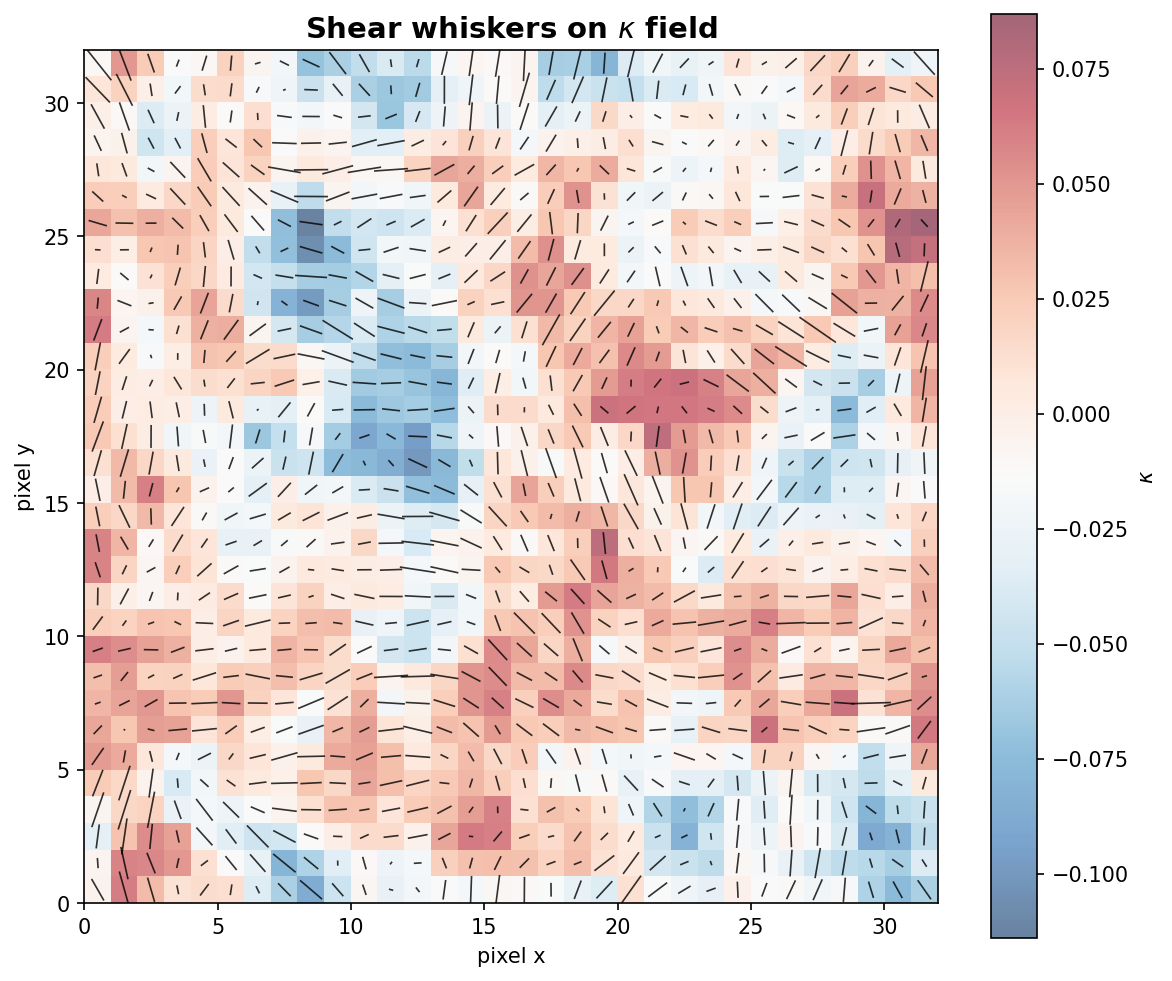
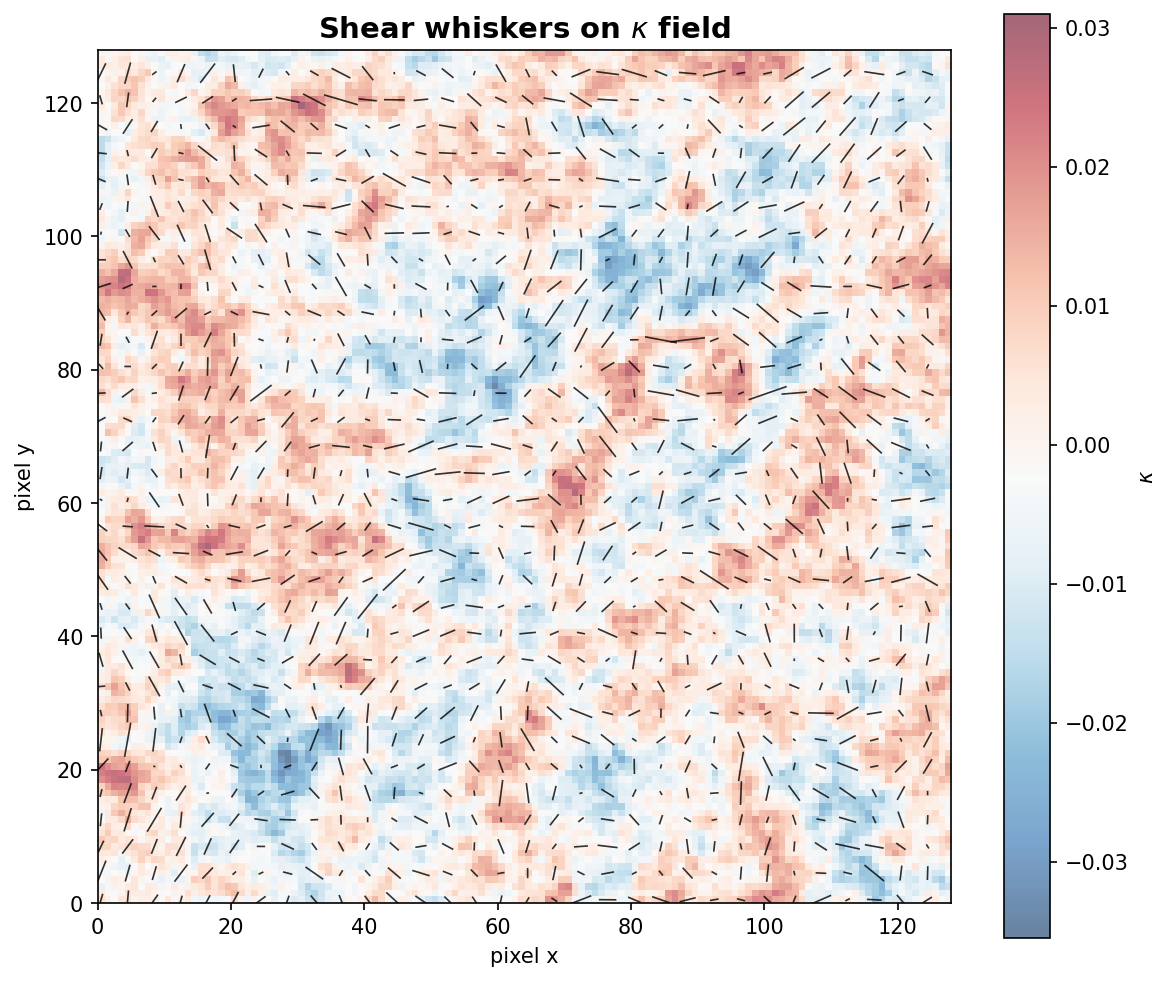
updating parameters

diff --git a/cosmology_inference_demo.py b/cosmology_inference_demo.py
@@ -41,7 +41,7 @@ from cosmo_lib.simulation import simulate_shear_catalog
 from cosmo_lib.classical import estimate_pseudo_cl, compute_eb_power, run_classical_pipeline
 from cosmo_lib.hierarchical import (
     _fourier_setup,
-    posterior_mean_shear,
+    posterior_sample_shear,
     run_hierarchical_pipeline,
 )
 from cosmo_lib.plotting import (
@@ -141,7 +141,7 @@ def main() -> None:
     print(f"  Field-level NUTS done in {time.time() - t0:.1f}s")
 
     # Posterior mean shear reconstruction for visualization
-    gamma1_recon, gamma2_recon = posterior_mean_shear(hierarchical_samples, fourier)
+    gamma1_recon, gamma2_recon = posterior_sample_shear(hierarchical_samples, fourier, index=-1)
 
     # ------------------------------------------------------------------
     # 4. Plots
@@ -159,7 +159,7 @@ def main() -> None:
         gamma2_recon,
     )
     plot_power_spectrum(cl_data, sim["ell2d"], eb_data=eb_data)
-    plot_shear_whiskers(sim)
+    plot_shear_whiskers(sim, stride=max(1, GRID_SIZE // 32))
 
     # ------------------------------------------------------------------
     # 5. Verification

diff --git a/cosmo_lib/hierarchical.py b/cosmo_lib/hierarchical.py
@@ -197,25 +197,27 @@ def run_hierarchical_pipeline(
     }
 
 
-def posterior_mean_shear(
+def posterior_sample_shear(
     samples: dict,
     fourier: dict,
+    index: int = 0,
 ) -> tuple[jnp.ndarray, jnp.ndarray]:
-    """Compute mean reconstructed shear from posterior kappa samples.
+    """Compute reconstructed shear from a single posterior kappa sample.
 
-    Takes the posterior mean kappa, applies Kaiser-Squires to get shear.
+    Takes one posterior kappa sample, applies Kaiser-Squires to get shear.
 
     Args:
         samples: Dictionary with 'kappa' array of shape (n_samples, n, n).
         fourier: Pre-computed Fourier grids.
+        index: Which posterior sample to use.
 
     Returns:
         Tuple (gamma1_recon, gamma2_recon), each (n, n).
     """
-    kappa_mean = jnp.mean(samples["kappa"], axis=0)
+    kappa_sample = samples["kappa"][index]
     D_ell = fourier["D_ell"]
 
-    kappa_fft = jnp.fft.fft2(kappa_mean)
+    kappa_fft = jnp.fft.fft2(kappa_sample)
     gamma_fft = D_ell * kappa_fft
     gamma = jnp.fft.ifft2(gamma_fft)
 

diff --git a/cosmo_lib/config.py b/cosmo_lib/config.py
@@ -8,8 +8,8 @@ import numpy as np
 # ---------------------------------------------------------------------------
 # Grid / survey settings
 # ---------------------------------------------------------------------------
-GRID_SIZE = 32  # pixels per side
-PIXEL_SCALE = 2.0  # arcmin / pixel
+GRID_SIZE = 128     # pixels per side
+PIXEL_SCALE = 1.0   # arcmin / pixel
 N_GAL_PER_PIX = 30  # galaxies per pixel
 SHAPE_NOISE = 0.26  # per-component intrinsic shape noise
 
@@ -26,7 +26,7 @@ A0 = 1e-4
 # Joint field-level NUTS settings (Pipeline B)
 # ---------------------------------------------------------------------------
 N_JOINT_WARMUP = 500
-N_JOINT_SAMPLES = 1000
+N_JOINT_SAMPLES = 2000
 JOINT_TARGET_ACCEPT = 0.8
 JOINT_MAX_TREE_DEPTH = 8
 
@@ -34,7 +34,7 @@ JOINT_MAX_TREE_DEPTH = 8
 # Classical pipeline NUTS settings
 # ---------------------------------------------------------------------------
 N_NUTS_WARMUP = 500
-N_NUTS_SAMPLES = 4000
+N_NUTS_SAMPLES = 2000
 
 # Ell binning
 N_ELL_BINS = 15

diff --git a/cosmo_lib/plotting.py b/cosmo_lib/plotting.py
@@ -181,7 +181,7 @@ def plot_shear_maps(
         vmin=vmin1,
         vmax=vmax1,
     )
-    axes[0, 2].set_title(r"NUTS-Reconstructed $\gamma_1$")
+    axes[0, 2].set_title(r"NUTS Sample $\gamma_1$")
     plt.colorbar(im, ax=axes[0, 2])
 
     # gamma2 row
@@ -204,11 +204,11 @@ def plot_shear_maps(
         vmin=vmin2,
         vmax=vmax2,
     )
-    axes[1, 2].set_title(r"NUTS-Reconstructed $\gamma_2$")
+    axes[1, 2].set_title(r"NUTS Sample $\gamma_2$")
     plt.colorbar(im, ax=axes[1, 2])
 
     plt.suptitle(
-        "Shear Field: True | Observed | NUTS-Reconstructed",
+        "Shear Field: True | Observed | NUTS Sample",
         fontsize=14,
         fontweight="bold",
     )

diff --git a/schneider.md b/schneider.md
@@ -1,0 +1,103 @@
+# Schneider et al. (2015) — Hierarchical Probabilistic Inference of Cosmic Shear
+
+**Reference:** Schneider, Hogg, Marshall, Dawson, Meyers, Bard & Lang, *ApJ* 807:87 (2015)
+
+## Overview
+
+The paper presents a forward-modeling, hierarchical Bayesian framework for inferring cosmic shear from galaxy imaging surveys. The key innovation is a **divide-and-conquer** strategy: fit each galaxy independently to obtain "interim posterior" samples of its parameters, then combine those per-galaxy samples into a global inference on the shear field and cosmology using **importance sampling**. This avoids the intractable joint fit of all galaxies simultaneously while still propagating the full per-galaxy uncertainty into the cosmological constraints.
+
+---
+
+## The Three-Level Hierarchy
+
+The full joint posterior (Equation 18 in the paper) factorizes into three conditionally independent branches:
+
+1. **Cosmological parameters** $\boldsymbol{\theta}$ (e.g. $\Omega_m$, $\sigma_8$) — set the angular power spectrum $C_\ell$ of the lensing potential $\psi$.
+2. **Observational PSFs** $\Pi_{n,i}$ — one per galaxy $n$ per epoch $i$, drawn from epoch-level observing conditions $\Omega_i$.
+3. **Intrinsic galaxy properties** $\omega_n$ (ellipticity, size, brightness) — drawn from a population-level distribution with hyperparameters $\alpha$ (modeled via a Dirichlet Process).
+
+The lens potential $\psi_s(\mathbf{x})$ connects branch 1 to the galaxy-level likelihood: it is the 2D projection of the 3D matter potential $\Psi^{\rm LT}$, which depends on cosmology $\boldsymbol{\theta}$ and initial conditions $\Psi^{\rm IC}$.
+
+---
+
+## Step 1: Interim Posterior Sampling (the "Reaper")
+
+For each galaxy $n$ observed across epochs $i = 1, \ldots, n_{\rm epoch}$, run an MCMC sampler on the per-galaxy likelihood of the pixel data $\mathbf{d}_n$:
+
+$$\ln \Pr(\mathbf{d}_n) = -\frac{1}{2} \sum_i \frac{(d_{n,i} - \hat{d}(\omega_n, \psi, \Pi_i))^2}{\sigma_{{\rm pix},n,i}^2} + \text{const.}$$
+
+This produces $K$ samples $\{\omega_{nk}, \Pi_{nk}\}_{k=1}^K$ from the **interim posterior**:
+
+$$\Pr(\omega_n, \Pi_n | \mathbf{d}_n) = \frac{1}{Z_n} \Pr(\mathbf{d}_n | \omega_n, \Pi_n) \Pr(\omega_n | I_0) \Pr(\Pi_n | I_0)$$
+
+where $I_0$ denotes the interim prior assumptions (chosen for computational convenience — broad or flat priors are fine). Crucially, the shear/lensing potential is **not** fit at this stage; the interim prior on $\psi$ can be any convenient Gaussian whose covariance mimics cosmological spatial correlations (Equation 9), but $\psi$ need not be tied to a specific cosmology yet.
+
+**Key point:** Each galaxy is fit independently and in parallel. The interim samples capture the full degeneracy between intrinsic shape $\omega_n$ and applied shear $\psi$. Only ~10 samples per galaxy are needed.
+
+---
+
+## Step 2: Importance Sampling to Build the Global Likelihood (the "Thresher")
+
+The goal is to evaluate the **marginalized likelihood** for the data of all galaxies, given the shear field $\psi$, the galaxy population hyperparameters $\alpha$, and the observing conditions $\Omega$:
+
+$$\Pr(\mathbf{d} | \alpha, \Omega, \psi) = \prod_{n=1}^{n_{\rm gal}} \Pr(\mathbf{d}_n | \alpha, \Omega, \psi)$$
+
+where each per-galaxy term involves an integral over the nuisance parameters $\omega_n$ and $\Pi_n$:
+
+$$\Pr(\mathbf{d}_n | \alpha, \Omega, \psi) \propto \int d\omega_n \int d\Pi_n \; \frac{\Pr(\omega_n | \alpha) \Pr(\Pi_n | \Omega)}{\Pr(\omega_n | I_0) \Pr(\Pi_n | I_0)} \Pr(\mathbf{d}_n | \omega_n, \psi, \Pi_n) \Pr(\omega_n | I_0) \Pr(\Pi_n | I_0)$$
+
+### The importance-sampling identity
+
+Using the identity $\int p(x) f(x) dx = \int p(x) g(x) \frac{f(x)}{g(x)} dx$ to rewrite this integral as an expectation over the interim posterior, the marginalized likelihood becomes (Equation 15):
+
+$$\boxed{\Pr(\mathbf{d}_n | \alpha, \Omega, \psi) \approx \frac{Z_n}{K} \sum_{k=1}^{K} \frac{\Pr(\omega_{nk} | \alpha, \psi) \; \Pr(\Pi_{nk} | \Omega)}{\Pr(\omega_{nk} | I_0) \; \Pr(\Pi_{nk} | I_0)}}$$
+
+where the sum runs over the $K$ interim posterior samples $\{\omega_{nk}, \Pi_{nk}\}$ drawn in Step 1.
+
+**What this achieves:** The expensive pixel-level likelihood $\Pr(\mathbf{d}_n | \omega_n, \psi, \Pi_n)$ was already evaluated during interim sampling. Now, to evaluate the likelihood under a *different* model (different $\alpha$, $\psi$, or $\Omega$), we only need to re-weight the existing samples by the ratio of the new prior to the interim prior. This is extremely fast — just evaluate prior ratios on stored samples.
+
+**Why it works:** The interim posterior samples cover the region of parameter space that matters for each galaxy. By re-weighting them, we can "reinterpret" those samples under any new model for the shear and galaxy population, without re-running any pixel-level fits.
+
+---
+
+## Step 3: From Shear Field to Cosmology (the "Winnower")
+
+Given interim samples of the lens potential $\psi_s$ from the Thresher, cosmological parameter constraints follow by another layer of importance sampling (Equation 17):
+
+$$\Pr(\mathbf{d}_n | \Psi^{\rm IC}, \boldsymbol{\theta}, W) \propto \frac{1}{N} \sum_{k=1}^{N} \frac{\prod_s \Pr(\hat{\psi}_{s,k} | \Psi^{\rm IC}, \boldsymbol{\theta}, W)}{\prod_s \Pr(\hat{\psi}_{s,k} | I)}$$
+
+where the sum is over $N$ lens-potential samples $\hat{\psi}_{s,k}$ from the Thresher output. The numerator evaluates the probability of each sampled $\psi$ under a cosmological model (parameterized by $\boldsymbol{\theta}$ and initial conditions $\Psi^{\rm IC}$), and the denominator is the interim prior used when sampling $\psi$.
+
+This connects the inferred shear field to the matter power spectrum and thereby to $(\Omega_m, \sigma_8)$.
+
+---
+
+## The Role of the Dirichlet Process (DP) for Galaxy Properties
+
+A critical ingredient is the hierarchical model for intrinsic galaxy properties $\omega_n$. Rather than assuming all galaxies share one ellipticity distribution, the paper uses a **Dirichlet Process mixture model**:
+
+$$\omega_n \sim \mathcal{N}(0, \alpha_n), \quad \alpha_n \sim G(\alpha_n | \mathcal{A}), \quad G \sim \text{DP}(\mathcal{A}, G_0)$$
+
+This automatically clusters galaxies into latent classes (e.g., round vs. elongated populations) and learns the number of classes from the data. The DP model:
+- Reduces shear bias by correctly modeling the intrinsic ellipticity distribution (especially when it is multimodal).
+- Enables per-galaxy weighting: galaxies from intrinsically rounder populations contribute more precise shear constraints.
+- Is updated via Gibbs sampling of the class assignments $c_n$ and hyperparameters $\alpha$, using the importance samples to evaluate marginal likelihoods (Equations 26-30).
+
+---
+
+## Computational Pipeline Summary (Figure 9)
+
+| Stage | Name | Input | Output |
+|-------|------|-------|--------|
+| 1 | **Reaper** | Pixel cutouts per galaxy | $K \sim 10$ interim posterior samples $(\omega_n, \Pi_n)$ per galaxy (embarrassingly parallel) |
+| 2 | **Thresher** | All interim samples for a field | MCMC samples of: (a) population-level distribution parameters $\alpha$, (b) shear field $\psi$ on a grid |
+| 3 | **Winnower** | Shear field samples from Thresher | Cosmological parameter constraints $(\Omega_m, \sigma_8, \ldots)$ via importance sampling against cosmological models |
+
+---
+
+## Why This Matters
+
+1. **No point estimators needed.** Traditional pipelines compress each galaxy to a single ellipticity estimate, losing information. This framework keeps the full per-galaxy posterior.
+2. **Proper marginalization over nuisances.** Intrinsic shapes, PSF uncertainties, and population-level distributions are all marginalized, not fixed or assumed.
+3. **Scalable.** The expensive step (pixel-level fitting) is embarrassingly parallel. The global inference reuses stored samples via cheap importance-weight evaluations.
+4. **Reduced bias.** Toy models in the paper show that hierarchical inference of the intrinsic ellipticity distribution (rather than assuming a fixed form) substantially reduces shear bias, especially when the galaxy population has multiple morphological classes.
